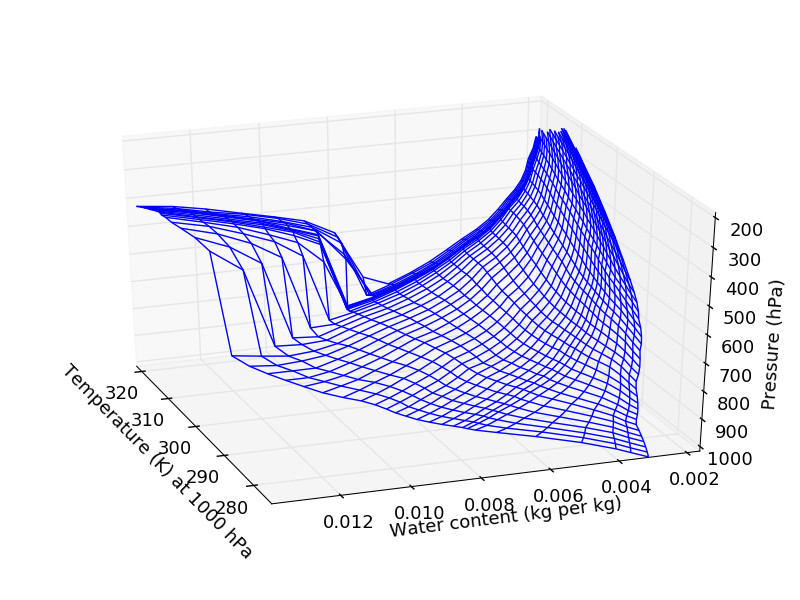
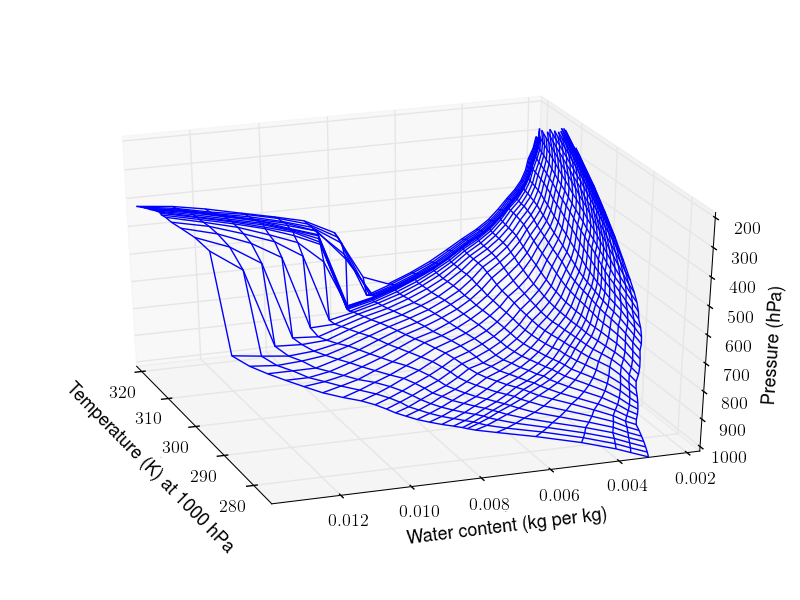
Adjusted labels of figures

diff --git a/src/run.py b/src/run.py
@@ -12,7 +12,8 @@ import examples
 
 
 def make_figure2():
-    plt.rc('font', size = 15)
+    plt.rc('font', size = 17)
+    plt.rc('text', usetex = True)
     # Values for the pathological problem
     y0 = 0.5
     y1 = 0
@@ -39,7 +40,7 @@ def make_figure2():
     plt.clf()
     plt.plot(dhdp1, p / 100, '-', label = 'dry parcel')
     plt.plot(dhdp0, p / 100, '--', label = 'wet parcel')
-    plt.xlabel("$\partial_p h$ (J kg$^{-1}$ Pa$^{-1}$)")
+    plt.xlabel("{\\huge $\\partial_p h$} (J kg$^{-1}$ Pa$^{-1}$)")
     plt.ylabel("Pressure (hPa)")
     plt.ylim(670, 380)
     plt.legend(loc = 'lower right', frameon = False)
@@ -64,6 +65,7 @@ def make_figure2():
 
 def make_figure1():
     plt.rc('font', size = 13)
+    plt.rc('text', usetex = True)
     p1 = examples.problem1
     # sol = solvers.divide_and_conquer(p1)
     sol = solvers.munkres(p1)
@@ -117,8 +119,8 @@ def make_figure1():
     ax.set_ylim(0.003 * thermo.epsilon, 0.022 * thermo.epsilon)
     ax.set_zlim(1000, 200)
     ax.view_init(elev=30, azim=160)
-    ax.set_xlabel("Temperature (K) at 1000 hPa")
-    ax.set_ylabel("Water content (kg per kg)")
+    ax.set_xlabel("{\\tiny .} \nTemperature (K) at 1000 hPa")
+    ax.set_ylabel("{\\tiny .} \nWater content (kg per kg)")
     ax.set_zlabel("Pressure (hPa)")
     plt.subplots_adjust(bottom = 0.1, right = 1, left = 0)
     plt.savefig('../output/Stansifer_Fig1.png')
